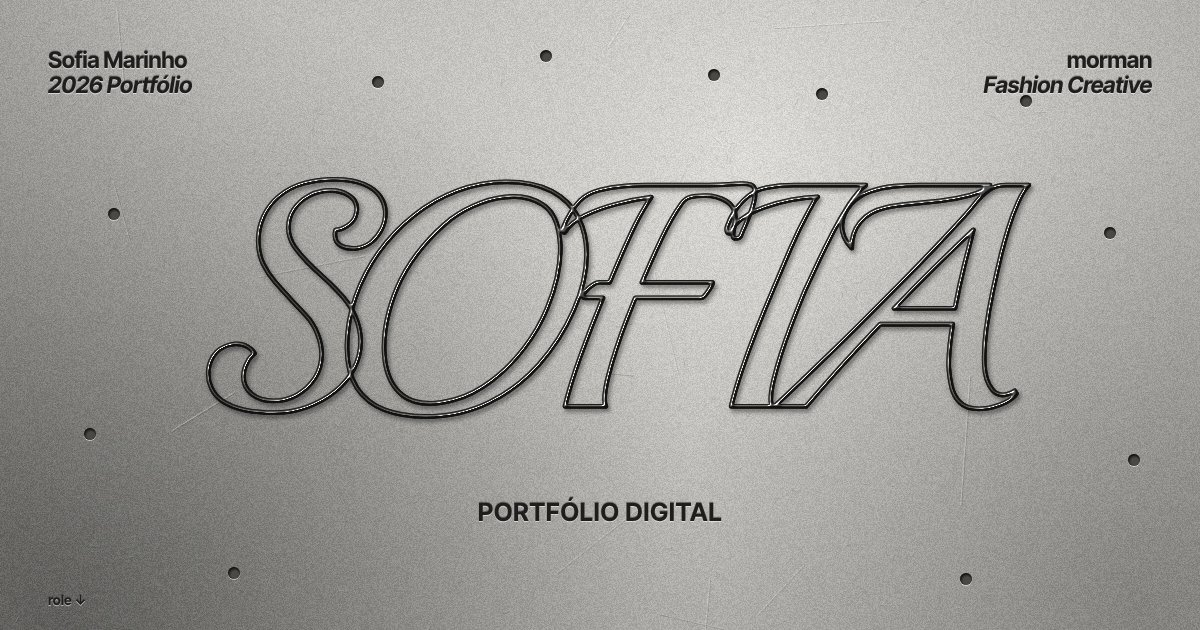
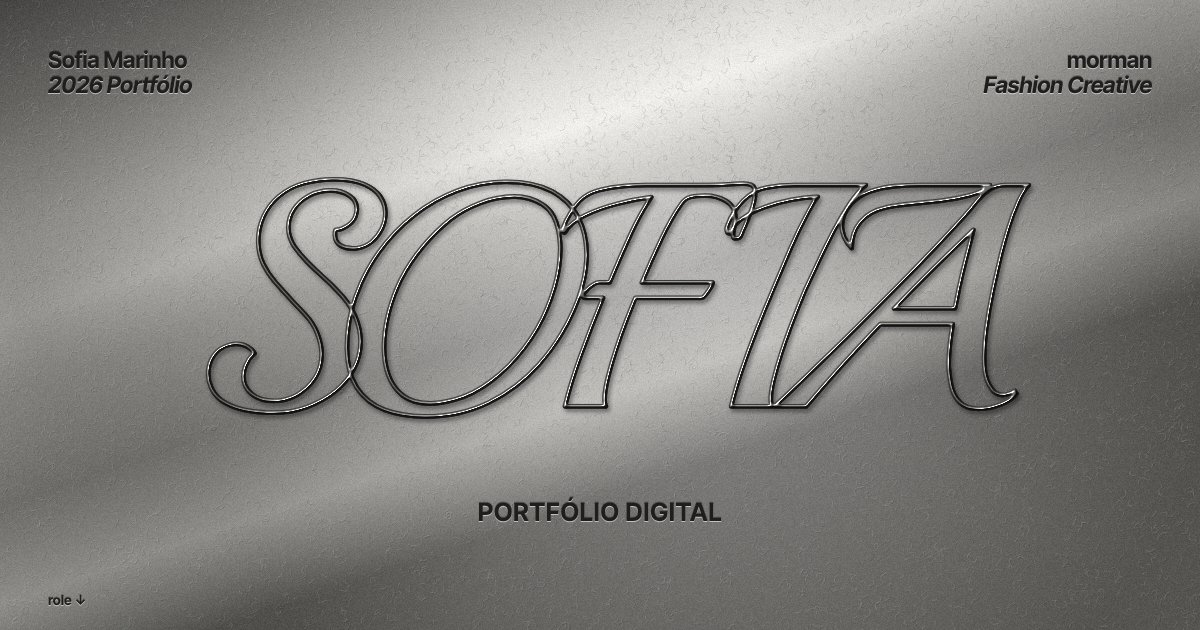
Portfólio: placa em prata polida com reflexos e textura fina, sem furos; contorno das letras mais prateado
Claude-Session: https://claude.ai/code/session_01TwcUAkcdnNUaJGVqTisuvo

diff --git a/portfolio/app.js b/portfolio/app.js
@@ -42,43 +42,40 @@
     var sc = Math.min(1.5, window.devicePixelRatio || 1);
     cv.width = Math.round(W * sc); cv.height = Math.round(H * sc);
     var c = cv.getContext("2d"), w = cv.width, h = cv.height, r = rng(20261), i, M = Math.max(w, h);
-    c.fillStyle = "#8f8e8b"; c.fillRect(0, 0, w, h);
-    function blob(x, y, rad, col, a) { var g = c.createRadialGradient(x, y, 0, x, y, rad); g.addColorStop(0, "rgba(" + col + "," + a + ")"); g.addColorStop(1, "rgba(" + col + ",0)"); c.fillStyle = g; c.fillRect(0, 0, w, h); }
-    blob(w * .62, h * .25, M * .7, "238,237,233", .8);
-    blob(w * .2, h * .15, M * .4, "215,214,210", .45);
-    blob(w * .05, h * 1, M * .55, "45,45,43", .5);
-    blob(w * .95, h * .95, M * .4, "70,69,66", .35);
-    // textura martelada: micro-relevos curtos, luz em cima e sombra 1px abaixo
-    c.lineWidth = Math.max(1, sc * .7);
-    var N = Math.round(w * h / 260);
+    // prata polida: faixas de reflexo (escuro em cima, brilho no meio, escuro embaixo)
+    var g = c.createLinearGradient(0, 0, w * .18, h);
+    g.addColorStop(0, "#4b4a48"); g.addColorStop(.16, "#7d7c79"); g.addColorStop(.34, "#c9c8c4");
+    g.addColorStop(.46, "#ecebe7"); g.addColorStop(.56, "#b9b8b4"); g.addColorStop(.72, "#8a8986");
+    g.addColorStop(.86, "#a9a8a4"); g.addColorStop(1, "#555451");
+    c.fillStyle = g; c.fillRect(0, 0, w, h);
+    function blob(x, y, rad, col, al) { var b = c.createRadialGradient(x, y, 0, x, y, rad); b.addColorStop(0, "rgba(" + col + "," + al + ")"); b.addColorStop(1, "rgba(" + col + ",0)"); c.fillStyle = b; c.fillRect(0, 0, w, h); }
+    blob(w * .58, h * .42, M * .45, "255,255,255", .35);
+    blob(w * .02, h * .5, M * .45, "40,40,38", .45);
+    blob(w * .98, h * .2, M * .35, "45,45,43", .35);
+    // textura cinzelada fina (padrão de arabescos curtos), em baixo contraste
+    c.lineWidth = Math.max(1, sc * .6);
+    var N = Math.round(w * h / 90);
     for (i = 0; i < N; i++) {
-      var x = r() * w, y = r() * h, an = r() * Math.PI * 2, ln = (2 + r() * 9) * sc, bend = (r() - .5) * ln;
-      var ex = x + Math.cos(an) * ln, ey = y + Math.sin(an) * ln, mx = (x + ex) / 2 + bend, my = (y + ey) / 2 - bend;
-      c.strokeStyle = "rgba(255,255,255," + (.04 + r() * .07) + ")";
+      var x = r() * w, y = r() * h, an = r() * Math.PI * 2, ln = (3 + r() * 7) * sc, k = (r() - .5) * 2.4;
+      var ex = x + Math.cos(an) * ln, ey = y + Math.sin(an) * ln;
+      var mx = (x + ex) / 2 - Math.sin(an) * ln * k, my = (y + ey) / 2 + Math.cos(an) * ln * k;
+      c.strokeStyle = "rgba(255,255,255," + (.05 + r() * .08) + ")";
       c.beginPath(); c.moveTo(x, y); c.quadraticCurveTo(mx, my, ex, ey); c.stroke();
-      c.strokeStyle = "rgba(20,20,19," + (.04 + r() * .06) + ")";
-      c.beginPath(); c.moveTo(x, y + sc); c.quadraticCurveTo(mx, my + sc, ex, ey + sc); c.stroke();
+      c.strokeStyle = "rgba(15,15,14," + (.05 + r() * .07) + ")";
+      c.beginPath(); c.moveTo(x + sc * .7, y + sc * .7); c.quadraticCurveTo(mx + sc * .7, my + sc * .7, ex + sc * .7, ey + sc * .7); c.stroke();
     }
-    // arranhões de uso (poucos)
-    for (i = 0; i < 18; i++) {
-      var x0 = r() * w, y0 = r() * h, a = r() * Math.PI, l = (r() * .12 + .02) * M;
-      c.strokeStyle = "rgba(255,255,255," + (.12 + r() * .2) + ")";
-      c.beginPath(); c.moveTo(x0, y0); c.lineTo(x0 + Math.cos(a) * l, y0 + Math.sin(a) * l); c.stroke();
-      c.strokeStyle = "rgba(30,30,28," + (.08 + r() * .12) + ")";
-      c.beginPath(); c.moveTo(x0 + 1, y0 + 1); c.lineTo(x0 + 1 + Math.cos(a) * l, y0 + 1 + Math.sin(a) * l); c.stroke();
-    }
-    // granulado
+    // granulado leve
     var img = c.getImageData(0, 0, w, h), d = img.data;
-    for (i = 0; i < d.length; i += 4) { var n = (r() - .5) * 26; d[i] += n; d[i + 1] += n; d[i + 2] += n; }
+    for (i = 0; i < d.length; i += 4) { var n = (r() - .5) * 14; d[i] += n; d[i + 1] += n; d[i + 2] += n; }
     c.putImageData(img, 0, 0);
   }
+
   var metal = $(".plate__metal");
   drawMetal(metal);
   var rz; addEventListener("resize", function () { clearTimeout(rz); rz = setTimeout(function () { drawMetal(metal); }, 150); });
 
   // furinhos na placa (posições fixas, em %)
-  $(".plate__holes").innerHTML = [[31, 12], [45, 8], [59, 11], [68, 14], [85, 15], [9, 33], [92, 36], [7, 68], [94, 72], [19, 90], [80, 91]]
-    .map(function (p) { return '<i style="left:' + p[0] + '%;top:' + p[1] + '%"></i>'; }).join("");
+
 
   // menu aparece depois da capa
   var top = $("#top");

diff --git a/portfolio/index.html b/portfolio/index.html
@@ -49,14 +49,14 @@
             <feDistantLight azimuth="225" elevation="42"/>
           </feSpecularLighting>
           <feComposite in="sp" in2="SourceAlpha" operator="in" result="spIn"/>
-          <feDiffuseLighting in="b" surfaceScale="5" diffuseConstant="1" lighting-color="#9c9b97" result="d">
+          <feDiffuseLighting in="b" surfaceScale="5" diffuseConstant="1" lighting-color="#d6d5d1" result="d">
             <feDistantLight azimuth="225" elevation="30"/>
           </feDiffuseLighting>
           <feComposite in="d" in2="SourceAlpha" operator="in" result="dIn"/>
           <feComposite in="dIn" in2="spIn" operator="arithmetic" k1="0" k2="1" k3="1" k4="-.12" result="tube"/>
           <feMorphology in="SourceAlpha" operator="erode" radius="1.2" result="core"/>
           <feComposite in="SourceAlpha" in2="core" operator="out" result="rim"/>
-          <feFlood flood-color="#141413" flood-opacity=".9"/>
+          <feFlood flood-color="#1c1c1b" flood-opacity=".75"/>
           <feComposite in2="rim" operator="in" result="edge"/>
           <feOffset in="SourceAlpha" dx="3" dy="5" result="o"/>
           <feGaussianBlur in="o" stdDeviation="3" result="ob"/>
@@ -69,7 +69,6 @@
     </svg>
     <p class="plate__sub emb" aria-hidden="true">Portfólio Digital</p>
     </div>
-    <div class="plate__holes" aria-hidden="true"></div>
     <a class="plate__down emb" href="#projetos">role ↓</a>
   </section>
 
